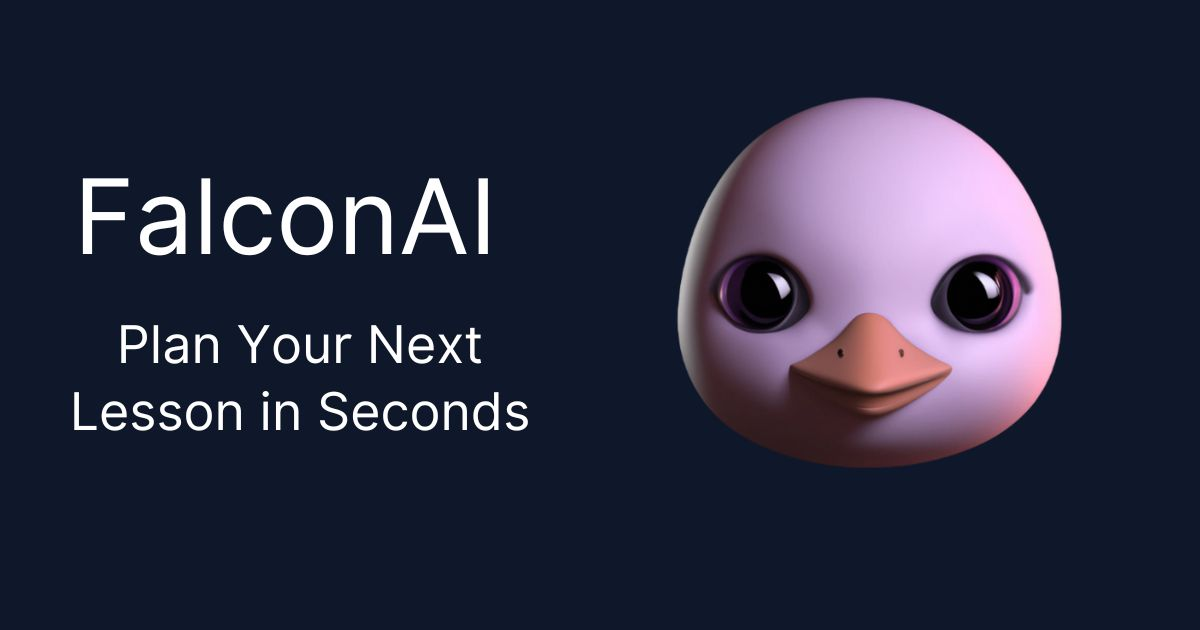
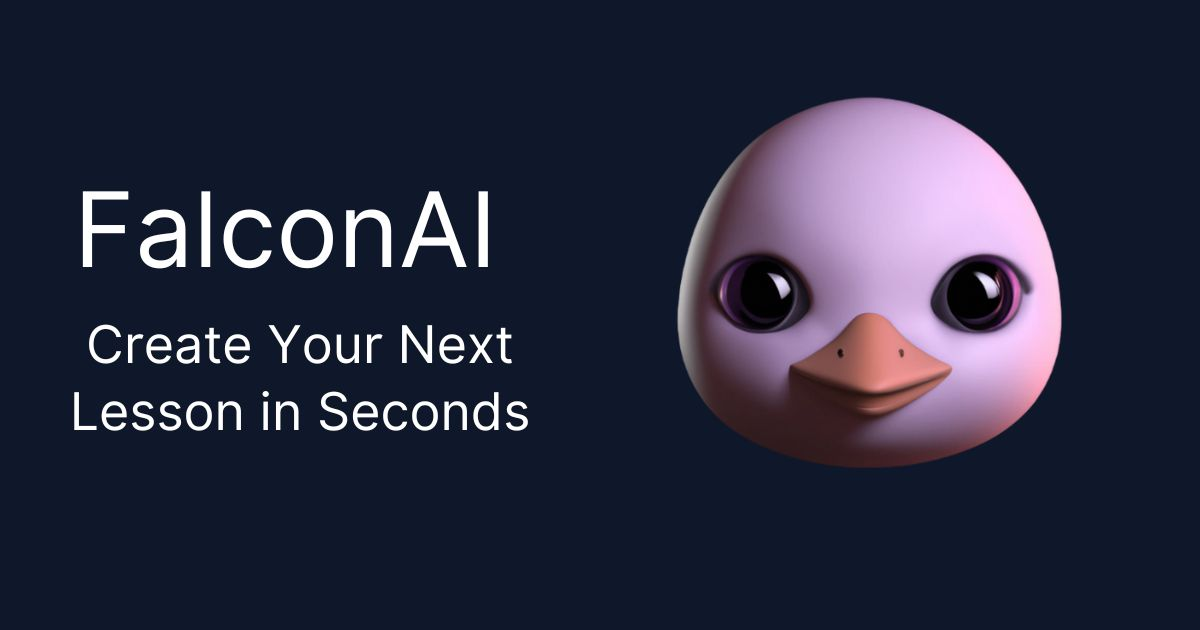
Update metadata and pitch

diff --git a/app/page.tsx b/app/page.tsx
@@ -18,7 +18,7 @@ const LandingPage = () => {
           "my-6 text-4xl md:text-6xl text-slate-300 max-w-xl leading-10"
         }
       >
-        <p className="">Plan Your Next Lesson in Seconds</p>
+        <p className="">Create Your Next Lesson in Seconds</p>
       </h1>
       <p className={"mb-12 text-lg text-gray-400 md:text-2xl max-w-xl mt-6"}>
         Use Falcon AI to create lesson plans specific to your curriculum, with

diff --git a/app/layout.tsx b/app/layout.tsx
@@ -11,7 +11,7 @@ const inter = Inter({
 });
 
 export const metadata = {
-  title: "FalconAI Co-Teacher",
+  title: "FalconAI | Your Personal Teaching Assistant",
   description:
     "Create lesson plans specific to your curriculum, with effortless drag and drop.",
 };
